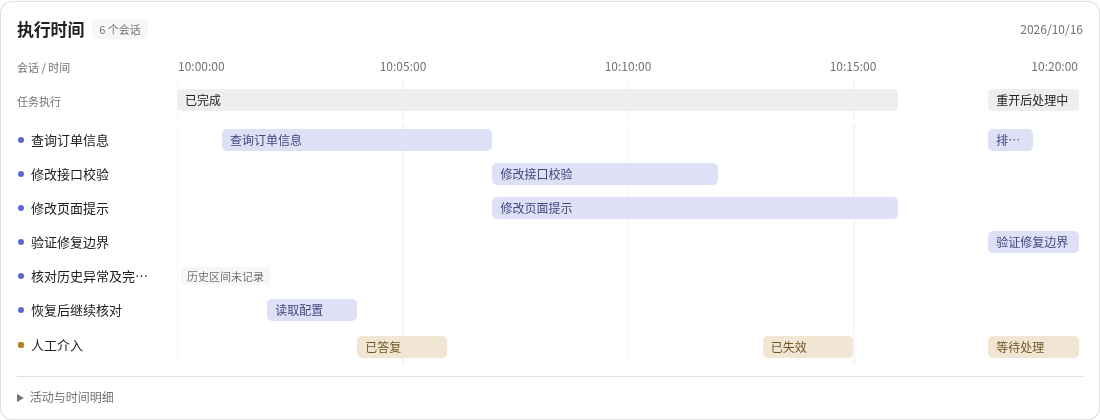
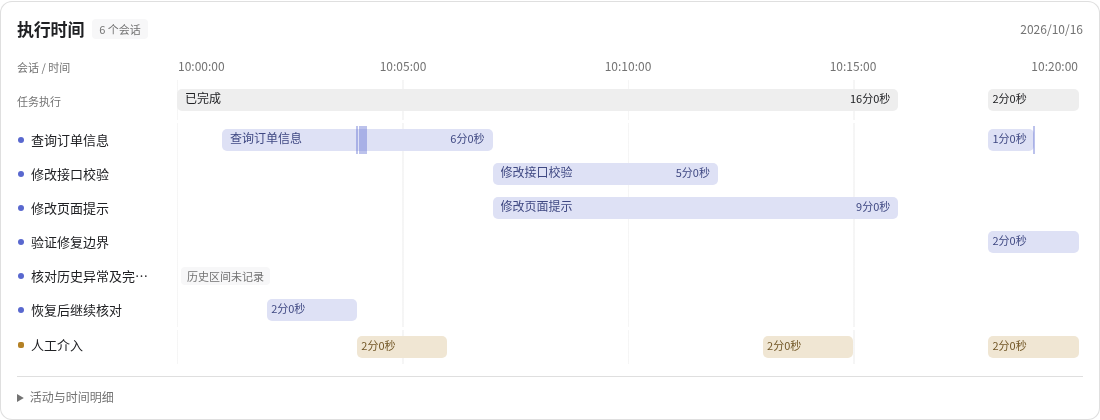
feat(observer): show timeline segment durations and stage markers

diff --git a/packages/dingtalk-dsh-observer/web-client.js b/packages/dingtalk-dsh-observer/web-client.js
@@ -901,16 +901,16 @@ window.__ModuleLoader__.load({
       .observer-session-detail .timeline-note { font-size: 11px; line-height: 16px; }
       .observer-session-detail .timeline-scroll { overflow-x: auto; padding-bottom: 4px; }
       .observer-session-detail .timeline-scroll:focus-visible { outline: 2px solid ${colors.accent}; outline-offset: 2px; }
-      .observer-session-detail .timeline-table { border-collapse: collapse; width: 100%; min-width: 820px; table-layout: fixed; font-size: 12px; }
+      .observer-session-detail .timeline-table { border-collapse: separate; border-spacing: 0; width: 100%; min-width: 820px; table-layout: fixed; font-size: 12px; }
       .observer-session-detail .timeline-table th { text-align: left; font-weight: 500; }
-      .observer-session-detail .timeline-table th:first-child { width: 140px; padding: 1px 16px 1px 0; overflow-wrap: anywhere; line-height: 18px; position: sticky; left: 0; z-index: 2; background: ${colors.surface}; }
+      .observer-session-detail .timeline-table th:first-child { width: 140px; padding: 1px 16px 1px 0; overflow-wrap: anywhere; line-height: 18px; position: sticky; left: 0; z-index: 10; transform: translateZ(0); background: ${colors.surface}; }
       .observer-session-detail .timeline-table thead th, .observer-session-detail .timeline-table tbody tr:first-child th { color: ${colors.muted}; font-size: 11px; font-weight: 400; }
       .observer-session-detail .timeline-table th small { display: none; }
       .observer-session-detail .timeline-name { display: block; position: relative; overflow: hidden; white-space: nowrap; text-overflow: ellipsis; font-size: 13px; font-weight: 500; line-height: 20px; padding-left: 14px; }
       .observer-session-detail .timeline-name::before { content: ''; position: absolute; left: 1px; top: 7px; width: 6px; height: 6px; border-radius: 50%; background: var(--timeline-lane-color); }
       .observer-session-detail .timeline-table tbody tr:last-child .timeline-name::before { border-radius: 2px; }
       .observer-session-detail .timeline-row-info { display: none; position: absolute; z-index: 5; top: 100%; left: 0; width: max-content; max-width: 280px; padding: 6px 8px; border: 1px solid ${colors.border}; border-radius: 4px; background: ${colors.surface}; color: inherit; font-weight: 400; white-space: normal; box-shadow: 0 2px 8px rgba(0,0,0,.08); pointer-events: none; }
-      .observer-session-detail .timeline-table th:is(:hover, :focus) { z-index: 5; }
+      .observer-session-detail .timeline-table th:is(:hover, :focus) { z-index: 12; }
       .observer-session-detail .timeline-table th:is(:hover, :focus) .timeline-row-info { display: block; }
       .observer-session-detail .timeline-table th:focus-visible { outline: 2px solid ${colors.accent}; outline-offset: -2px; }
       .observer-session-detail .timeline-table td { padding: 0; }
@@ -924,7 +924,18 @@ window.__ModuleLoader__.load({
       .observer-session-detail .timeline-table tbody tr:last-child { --timeline-lane-color: #b48125; }
       .observer-session-detail .timeline-track { height: 34px; position: relative; margin: 0 4px; background: repeating-linear-gradient(to right, color-mix(in srgb, ${colors.border} 30%, transparent) 0, color-mix(in srgb, ${colors.border} 30%, transparent) 1px, transparent 1px, transparent 25%); }
       .observer-session-detail .timeline-bar { position: absolute; top: 6px; height: 22px; min-width: 2px; box-sizing: border-box; border: 0; border-radius: 5px; background: color-mix(in srgb, var(--timeline-lane-color) 20%, ${colors.surface}); color: color-mix(in srgb, var(--timeline-lane-color) 55%, currentColor); overflow: hidden; }
-      .observer-session-detail .timeline-bar > span { display: block; white-space: nowrap; overflow: hidden; text-overflow: ellipsis; padding: 1px 8px; font-size: 12px; font-weight: 500; line-height: 20px; }
+      .observer-session-detail .timeline-bar > span { display: flex; align-items: center; gap: 8px; white-space: nowrap; overflow: hidden; text-overflow: ellipsis; padding: 1px 8px; font-size: 12px; font-weight: 500; line-height: 16px; }
+      .observer-session-detail .timeline-bar { container-type: inline-size; }
+      .observer-session-detail .timeline-activity { overflow: hidden; text-overflow: ellipsis; flex: 1; min-width: 0; }
+      .observer-session-detail .timeline-duration { flex: none; font-size: 11px; font-variant-numeric: tabular-nums; }
+      @container (max-width: 130px) { .observer-session-detail .timeline-activity { display: none; } .observer-session-detail .timeline-bar > span { gap: 0; padding-inline: 4px; } }
+      .observer-session-detail .timeline-tooltip { display: none; position: absolute; left: 0; top: 100%; z-index: 8; box-sizing: border-box; width: max-content; max-width: min(320px, 100%); padding: 6px 8px; background: ${colors.surface}; color: inherit; border: 1px solid ${colors.border}; border-radius: 4px; box-shadow: 0 2px 8px rgba(0,0,0,.08); white-space: pre-line; overflow-wrap: anywhere; font-size: 12px; line-height: 18px; pointer-events: none; }
+      .observer-session-detail .timeline-track:has(:is(:hover, :focus)) { z-index: 6; }
+      .observer-session-detail :is(.timeline-bar, .timeline-milestone):is(:hover, :focus) + .timeline-tooltip { display: block; }
+      .observer-session-detail .timeline-bar:focus-visible { outline: 2px solid ${colors.accent}; outline-offset: 2px; }
+      .observer-session-detail .timeline-milestone { position: absolute; top: 6px; transform: translateX(-50%); width: 18px; height: 22px; padding: 0; border: 0; background: transparent; color: var(--timeline-lane-color); cursor: help; z-index: 3; }
+      .observer-session-detail .timeline-milestone-tick { position: absolute; left: 50%; top: -3px; transform: translateX(-50%); width: 1px; height: 28px; background: currentColor; opacity: .8; }
+      .observer-session-detail .timeline-milestone:is(:hover, :focus-visible) { outline: 1px solid currentColor; border-radius: 4px; }
       .observer-session-detail .timeline-total-track { height: 40px; }
       .observer-session-detail .timeline-total { top: 9px; height: 22px; border: 0; border-radius: 5px; background: color-mix(in srgb, ${colors.muted} 12%, ${colors.surface}); color: inherit; }
       .observer-session-detail .timeline-table th small.timeline-total-missing { display: block; font-size: 10px; line-height: 14px; font-weight: 400; color: ${colors.muted}; }
@@ -961,12 +972,42 @@ window.__ModuleLoader__.load({
       const dateLabel = new Date(start).toLocaleDateString('zh-CN') + (sameDay ? '' : ` — ${new Date(end).toLocaleDateString('zh-CN')}`)
       const status = value => ({ completed: '已完成', recorded: '已记录', running: '执行中', queued: '排队中', succeeded: '已成功', failed: '失败', stale: '已失效', cancelled: '已取消', 'waiting-reply': '等待处理', answered: '已答复', superseded: '已失效', closed: '已关闭' })[value] || value
       const range = segment => `${time(segment.startedAt)} — ${segment.active ? '当前' : time(segment.endedAt)}`
-      const bar = (segment, total = false) => {
+      const placeTooltip = event => {
+        const target = event.currentTarget, tooltip = target.nextElementSibling, bounds = target.getBoundingClientRect()
+        const width = Math.min(320, window.innerWidth - 16)
+        tooltip.style.position = 'fixed'
+        tooltip.style.width = `${width}px`
+        tooltip.style.left = `${Math.max(8, Math.min(bounds.left, window.innerWidth - width - 8))}px`
+        tooltip.style.top = `${Math.max(8, Math.min(bounds.bottom + 4, window.innerHeight - tooltip.offsetHeight - 8))}px`
+      }
+      const elapsed = segment => fmtDuration(Math.max(0, (segment.active ? now : Date.parse(segment.endedAt)) - Date.parse(segment.startedAt)))
+      const describe = (segment, total, human) => `${segment.label || '任务执行'} · ${range(segment)} · ${total ? '本次处理历时' : human ? '人工处理等待' : '执行区段历时'} ${elapsed(segment)}${segment.active ? '（进行中）' : ''}`
+      const markerLayout = row => {
+        const groups = []
+        for (const event of [...row.milestones].filter(event => Number.isFinite(Date.parse(event.at))).sort((a, b) => Date.parse(a.at) - Date.parse(b.at))) {
+          const group = groups.at(-1), at = position(event.at)
+          if (group && Date.parse(event.at) === Date.parse(group.events[0].at)) group.events.push(event)
+          else groups.push({ at, events: [event] })
+        }
+        return groups
+      }
+      const markers = row => markerLayout(row).map(group => {
+          const nearby = row.milestones.filter(event => Number.isFinite(Date.parse(event.at)) && Math.abs(position(event.at) - group.at) <= 3).sort((a, b) => Date.parse(a.at) - Date.parse(b.at))
+          const content = nearby.map(event => `${time(event.at)} · 阶段成果：${event.summary}`).join('\n')
+          return React.createElement(React.Fragment, { key: group.events[0].id },
+            React.createElement('button', { type: 'button', className: 'timeline-milestone', style: { left: `${group.at}%` }, 'data-recorded-at': group.events[0].at, 'aria-label': content, title: content, onFocus: placeTooltip, onMouseEnter: placeTooltip },
+              React.createElement('span', { className: 'timeline-milestone-tick', 'aria-hidden': true })),
+            React.createElement('span', { className: 'timeline-tooltip', 'aria-hidden': true }, content))
+        })
+      const bar = (segment, total = false, human = false) => {
         if (!segment.startedAt || !segment.active && !segment.endedAt) return null
         const left = position(segment.startedAt), right = position(segment.active ? new Date(Math.max(now, Date.parse(segment.startedAt))).toISOString() : segment.endedAt)
-        return React.createElement('span', { key: segment.id || 'total', className: `timeline-bar${total ? ' timeline-total' : ''}${['failed','cancelled','superseded','stale'].includes(segment.status) ? ' timeline-muted' : ''}`,
-          style: { left: `${left}%`, width: `${Math.max(0, right - left)}%` }, title: `${segment.label || '任务执行'} · ${range(segment)}${segment.status ? ` · ${status(segment.status)}` : ''}`,
-          'aria-hidden': true }, React.createElement('span', null, segment.label || '任务执行'))
+        const description = describe(segment, total, human)
+        return React.createElement(React.Fragment, { key: segment.id || 'total' },
+          React.createElement('span', { className: `timeline-bar${total ? ' timeline-total' : ''}${['failed','cancelled','superseded','stale'].includes(segment.status) ? ' timeline-muted' : ''}`,
+            style: { left: `${left}%`, width: `${Math.max(0, right - left)}%` }, title: description, tabIndex: 0, role: 'img', 'aria-label': description, onFocus: placeTooltip, onMouseEnter: placeTooltip },
+            React.createElement('span', null, React.createElement('span', { className: 'timeline-activity' }, segment.label || '任务执行'), React.createElement('span', { className: 'timeline-duration' }, elapsed(segment)))),
+          React.createElement('span', { className: 'timeline-tooltip', 'aria-hidden': true }, description))
       }
       return React.createElement('section', { className: 'detail-panel detail-timeline', 'aria-label': '执行时间泳道图' },
         React.createElement('div', { className: 'timeline-heading' }, React.createElement('div', { className: 'timeline-title' }, React.createElement('h2', null, '执行时间'), React.createElement('span', { className: 'timeline-count' }, `${timeline.executions.length} 个会话`)), React.createElement('span', { className: 'timeline-date', title: '时间按浏览器本地时区显示' }, dateLabel)),
@@ -976,15 +1017,15 @@ window.__ModuleLoader__.load({
             React.createElement('tbody', null,
               React.createElement('tr', null, React.createElement('th', { scope: 'row' }, '任务执行', timeline.task.complete === false ? React.createElement('small', { className: 'timeline-total-missing' }, '部分历史未记录') : null), React.createElement('td', null, React.createElement('div', { className: 'timeline-track timeline-total-track' }, ...totalSegments.map(segment => bar(segment, true)), !totalSegments.length ? React.createElement('span', { className: 'timeline-empty' }, '完成 / 重开时间未完整记录') : null), React.createElement('span', { className: 'timeline-sr' }, ...totalSegments.map(segment => `${segment.label} · ${range(segment)}；`)))),
               ...rows.map(row => React.createElement('tr', { key: row.id }, React.createElement('th', { scope: 'row', tabIndex: 0, 'aria-label': `${row.title}${row.status ? ` · ${status(row.status)}` : ''}${row.complete ? '' : ' · 部分区间未记录'}` }, React.createElement('span', { className: 'timeline-name' }, row.title), React.createElement('span', { className: 'timeline-row-info', 'aria-hidden': true }, `${row.title}${row.status ? ` · ${status(row.status)}` : ''}${row.complete ? '' : ' · 部分区间未记录'}`), row.status ? React.createElement('small', null, status(row.status)) : null, !row.complete ? React.createElement('small', null, '部分区间未记录') : null),
-                React.createElement('td', null, React.createElement('div', { className: 'timeline-track' }, ...row.segments.map(segment => bar(segment)),
+                React.createElement('td', null, React.createElement('div', { className: 'timeline-track' }, ...row.segments.map(segment => bar(segment, false, row.id === 'human')), ...markers(row),
                   !row.segments.length ? React.createElement('span', { className: 'timeline-empty' }, row.complete ? row.id === 'human' ? '暂无人工介入' : '尚未开始执行' : '历史区间未记录') : null),
                   React.createElement('span', { className: 'timeline-sr' }, `${row.segments.length} 个区段${row.complete ? '' : '，部分历史区间未记录'}`))))))),
         React.createElement('details', { className: 'detail-disclosure timeline-details' }, React.createElement('summary', null, '活动与时间明细'),
-          React.createElement('p', { className: 'detail-muted timeline-note' }, '靛蓝为执行会话，金色为人工介入。阶段成果保留在明细中；未记录区间不推算，人工处理不表示批准。'),
+          React.createElement('p', { className: 'detail-muted timeline-note' }, '靛蓝为执行会话，金色为人工介入。贯穿色带的细刻线为阶段成果，悬停或聚焦查看附近成果的准确时间；未记录区间不推算，人工处理不表示批准。'),
           React.createElement('section', null, React.createElement('h3', null, '任务完成与重开'), timeline.task.complete === false ? React.createElement('p', null, '部分任务历史时间未记录，不推算完成或重开的时间。') : null,
             totalEvents.length ? React.createElement('ul', null, ...totalEvents.map((event, index) => React.createElement('li', { key: `${event.kind}:${index}` }, `${time(event.at)} · 第 ${event.sequence} 次处理 · ${({ created: '创建任务', completed: '任务完成', reopened: '重新打开', cancelled: '取消任务' })[event.kind] || event.kind}`))) : React.createElement('p', null, '任务历史时间未完整记录。')),
           ...rows.map(row => React.createElement('section', { key: row.id }, React.createElement('h3', null, `${row.title}${row.status ? ` · ${status(row.status)}` : ''}`), !row.complete ? React.createElement('p', null, '部分历史区间未记录；恢复时未知的结束时间不作推算。') : null,
-            row.segments.length || row.milestones.length ? React.createElement('ul', null, ...row.segments.map(segment => React.createElement('li', { key: segment.id }, `${segment.label} · ${range(segment)} · ${status(segment.status)}`, segment.description ? React.createElement('p', null, segment.description) : null)), ...row.milestones.map(event => React.createElement('li', { key: event.id }, `${time(event.at)} · 阶段成果：${event.summary}`))) : React.createElement('p', null, row.complete ? row.id === 'human' ? '暂无人工介入' : '尚未开始执行' : '历史执行过程未记录。')))))
+            row.segments.length || row.milestones.length ? React.createElement('ul', null, ...row.segments.map(segment => React.createElement('li', { key: segment.id }, `${segment.label} · ${range(segment)} · ${elapsed(segment)} · ${status(segment.status)}`, segment.description ? React.createElement('p', null, segment.description) : null)), ...row.milestones.map(event => React.createElement('li', { key: event.id }, `${time(event.at)} · 阶段成果：${event.summary}`))) : React.createElement('p', null, row.complete ? row.id === 'human' ? '暂无人工介入' : '尚未开始执行' : '历史执行过程未记录。')))))
     }
     function TaskSessionDetail({ task, onOpenSession, onBack, updatedAt, onOpenHumanRequest }) {
       const requirements = task.requirements || task.acceptanceCriteria || []

diff --git a/DESIGN.md b/DESIGN.md
@@ -56,7 +56,7 @@ omitted:
 
 ## Components
 
-任务详情的执行时间泳道图沿用现有 detail-panel 容器与宿主主题；按用户最新“现代风格重做”采用开发工具式轻时间轴，替代此前直角表格风格：名称前分类色点对应柔和的 5px 圆角色带，140px 固定标签列、34px 紧凑轨道，省略横向分隔线。颜色只区分会话，不替代状态语义。任务总跨度使用中性细轨；每个执行会话一行，业务活动区段之间保留真实空档，最后一行固定为人工介入。按用户最新要求不绘制成果竖线或运行/等待末端小竖线；当前区段仍按真实时间延伸，阶段成果保留在明细，不添加无关动效。完整名称、状态和缺失说明可通过标签悬停或键盘聚焦读取；原生折叠明细保留全部名称、时间与解释。标题、轻量会话计数和日期分层，无额外卡片或装饰图标。窄屏仅图表局部横向滚动，不改变详情自然纵向滚动。数据口径见 docs/spec/task-execution-timeline.md。
+任务详情的执行时间泳道图沿用现有 detail-panel 容器与宿主主题；按用户最新“现代风格重做”采用开发工具式轻时间轴，替代此前直角表格风格：名称前分类色点对应柔和的 5px 圆角色带，140px 固定标签列、34px 紧凑轨道，省略横向分隔线。颜色只区分会话，不替代状态语义。任务总跨度使用中性细轨；每个执行会话一行，业务活动区段之间保留真实空档，最后一行固定为人工介入。区段内显示实际历时：宽条名称和时长同排，窄条优先时长，悬停/聚焦查看完整信息。阶段成果以贯穿色带的 1px 细刻线（上下各超出 3px）显示，同一水平线，不移动真实时间坐标；无圆点和数量角标。密集时呈轻细纹理，悬停/聚焦列出附近成果的各自准确时间与内容；不绘制运行/等待末端小竖线。当前区段仍按真实时间延伸，不添加无关动效。完整名称、状态和缺失说明可通过标签悬停或键盘聚焦读取；原生折叠明细保留全部名称、时间与解释。标题、轻量会话计数和日期分层，无额外卡片或装饰图标。窄屏仅图表局部横向滚动，不改变详情自然纵向滚动。数据口径见 docs/spec/task-execution-timeline.md。
 
 任务卡片执行会话使用左图标、中间名称、右时间值单行布局；名称超长以 ellipsis 省略并提供完整 tooltip，320px 也不换行；原状态文字位置仅显示累计运行时间数值，不显示状态文字或“时长”前缀；状态图标以 tooltip 和无障碍标签保留含义；仅 running 且未排空、未恢复中的执行复用宿主 StateDot ongoing（14px 固定占位），动画形态由宿主版本决定，数字采用等宽数字及预留宽度。复用 fmtDuration；排队不计时，历史或崩溃区间缺少证据显示“—”并以 tooltip 及无障碍标签解释时长未记录，计时口径见 docs/spec/execution-session-duration.md。
 
@@ -77,4 +77,4 @@ omitted:
 人工介入详情使用 HumanRequestModal 原生 dialog 居中显示，最大宽度 1040px；窄屏保留 8px 外边距。标题、可滚动正文和答复区分层，答复反馈预留位置，按钮提交中保持宽度。沿用 HumanRequestContent 与 HumanRequestReply 的字段和状态合同，不影响任务详情。
 
 
-任务执行总览沿用连续时间轴；创建/重开至完成绘为中性浅灰文字区段，完成至重开留白。当前区段显示“重开后处理中”，已结束区段显示“已完成/重开后完成”。不添加阶段或端点竖线，执行会话保留统一柔和靛蓝，人工介入保留柔和金色。缺失历史明确提示，不延展或补造。
+任务执行总览沿用连续时间轴；创建/重开至完成绘为中性浅灰文字区段，完成至重开留白。当前区段显示“重开后处理中”，已结束区段显示“已完成/重开后完成”。总览不添加生命周期或运行端点线；会话成果按真实时间绘制细刻线。执行会话保留统一柔和靛蓝，人工介入保留柔和金色。缺失历史明确提示，不延展或补造。

diff --git a/docs/spec/task-execution-timeline.md b/docs/spec/task-execution-timeline.md
@@ -4,7 +4,7 @@
 
 ## 现有证据与最小补全
 
-当前生效入口为 task-session-service → dynamic-task-store；Observer 的 TaskSessionDetail 使用 `/state/tasks/:id/detail`。不使用旧 workflow。现有 `runTiming` 只有累计时长和当前领取起点，不能还原完整区间；`stageProgress` 是最新快照，但 `dynamic_wakes` 的 `execution.stage.progress` 已持久保留各次成果的 summary、recordedAt、执行/输入/租约身份。复用这些 wake 在折叠明细展示阶段成果，图中不绘制小标记，不新增重复成果日志，不从成果摘要或最终摘要推算过去的活动时长。
+当前生效入口为 task-session-service → dynamic-task-store；Observer 的 TaskSessionDetail 使用 `/state/tasks/:id/detail`。不使用旧 workflow。现有 `runTiming` 只有累计时长和当前领取起点，不能还原完整区间；`stageProgress` 是最新快照，但 `dynamic_wakes` 的 `execution.stage.progress` 已持久保留各次成果的 summary、recordedAt、执行/输入/租约身份。复用这些 wake 在折叠明细展示阶段成果，图中以贯穿色带、上下各超出 3px 的轻细刻线展示，各不同时间严格映射统一时间轴，固定同一水平线，不做位置避让；同一时刻可共享位置并保留全部内容；无圆点或数量角标，命中区可较大，悬停/聚焦列出附近成果准确时间与内容，不新增重复成果日志，不从成果摘要或最终摘要推算过去的活动时长。
 
 执行 JSON 增加 Host 管理的 `timeline: {version:1,complete,segments}`，无数据库 schema 迁移。dispatch 初始化空记录；claim 开始区段；首次 result 或无结果 drained 关闭。排空等待与排队不算执行。取消请求尚未排空仍保留活动区间。continue、供应商退避重试及恢复沿用原执行身份，下次 claim 才开新区段。
 
@@ -21,6 +21,6 @@
 
 ## 任务完成与重开
 
-任务总览使用连续时间轴，按创建/重开至完成分段，完成至重开留白；当前区段延伸至现在，终态固定。总览文字区分“已完成”“重开后完成”“重开后处理中”，详情展示真实创建、完成与重开时间，不增加小竖线。
+任务总览使用连续时间轴，按创建/重开至完成分段，完成至重开留白；当前区段延伸至现在，终态固定。总览文字区分“已完成”“重开后完成”“重开后处理中”，详情展示真实创建、完成与重开时间，不增加小竖线。每个区段时长仅以其自身结束减开始计算；进行中区段使用 now，完成区段固定，不跨越完成至重开的空档。人工区段明确为等待历时，任务区段为本次处理历时。宽区段名称/时长同排，窄区段优先时长；悬停和聚焦提示及折叠明细提供完整信息。
 
 只读使用当前 completion.at、task.reopen wake，以及不可变重开回执和 complete:taskId:requirementRevision 完成回执；核验任务、修订及既有 runSequence。缺失或异常事实标记历史不完整，不用摘要、updatedAt 或通知时间推断。不增加表、实体或写入，也不改变统筹判断及重开门禁。

diff --git a/docs/acceptance/task-execution-timeline/duration-milestones.md b/docs/acceptance/task-execution-timeline/duration-milestones.md
@@ -1,0 +1,19 @@
+# 区段耗时与阶段成果刻线
+
+基于已合并 PR194 的 main 60989545fe8b1bf4229d96f64dc299b0fd6731a5，新分支 feat/timeline-duration-milestones。
+
+仅 Observer 任务详情展示变化，无新增采集、存储或任务执行行为。每块时长取该区段自身起止；进行中随 now 更新，终态固定，不计完成至重开的空档。总览解释为本次处理历时，人工介入为等待历时，执行区段为执行历时。宽条名称和时长同排，窄条优先时长；完整信息支持悬停/聚焦及折叠明细。
+
+成果复用持久 recordedAt 与 summary，在所属会话行按全图统一时间轴定位。细线 1px × 28px，贯穿 22px 色带，上下各超出 3px；不改行高或时间位置，无圆点、数量角标、横向/纵向避让或缩放。不同时间各自绘制，完全同刻共享位置；18px 命中区可查看附近成果各自准确时间和内容。运行/人工等待末端线未恢复。
+
+预览包含区段中间成果、相距 3 秒的密集成果、完全同刻内容及普通成果。桌面/390px 窄屏实测六个刻线中心与对应时间比例误差小于 0.001，并验证全部 y 相同、上下各 3px、无裁切。检查涵盖并行、空档、完成重开、固定/实时耗时、历史缺失、恢复、长名、键盘、失败重试、深色/强制颜色和对比度。
+
+预览为合成数据，使用真实 React 与完整 Observer 模块，API 全拦截；未连接生产库、真实模型、Windows 宿主或钉钉收发。本次云端仅提交合并，部署另行协调。
+
+## 最终验证
+
+- 97 项定向测试通过，0 失败、0 跳过。
+- 完整 Observer 隔离浏览器 15 组检查通过，含真实时间坐标、同刻/密集成果、上下各 3px、无裁切与交互。
+- 前端构建成功，生成 assistant web-client 无差异；Observer 打包成功，JS 语法与 diff 检查通过。
+- 严格 UI audit、DESIGN lint 无错误/警告。
+- 当前 CI 仅 workflow_dispatch，不自动随 PR 运行；本地验证不等同生产实机验证。
